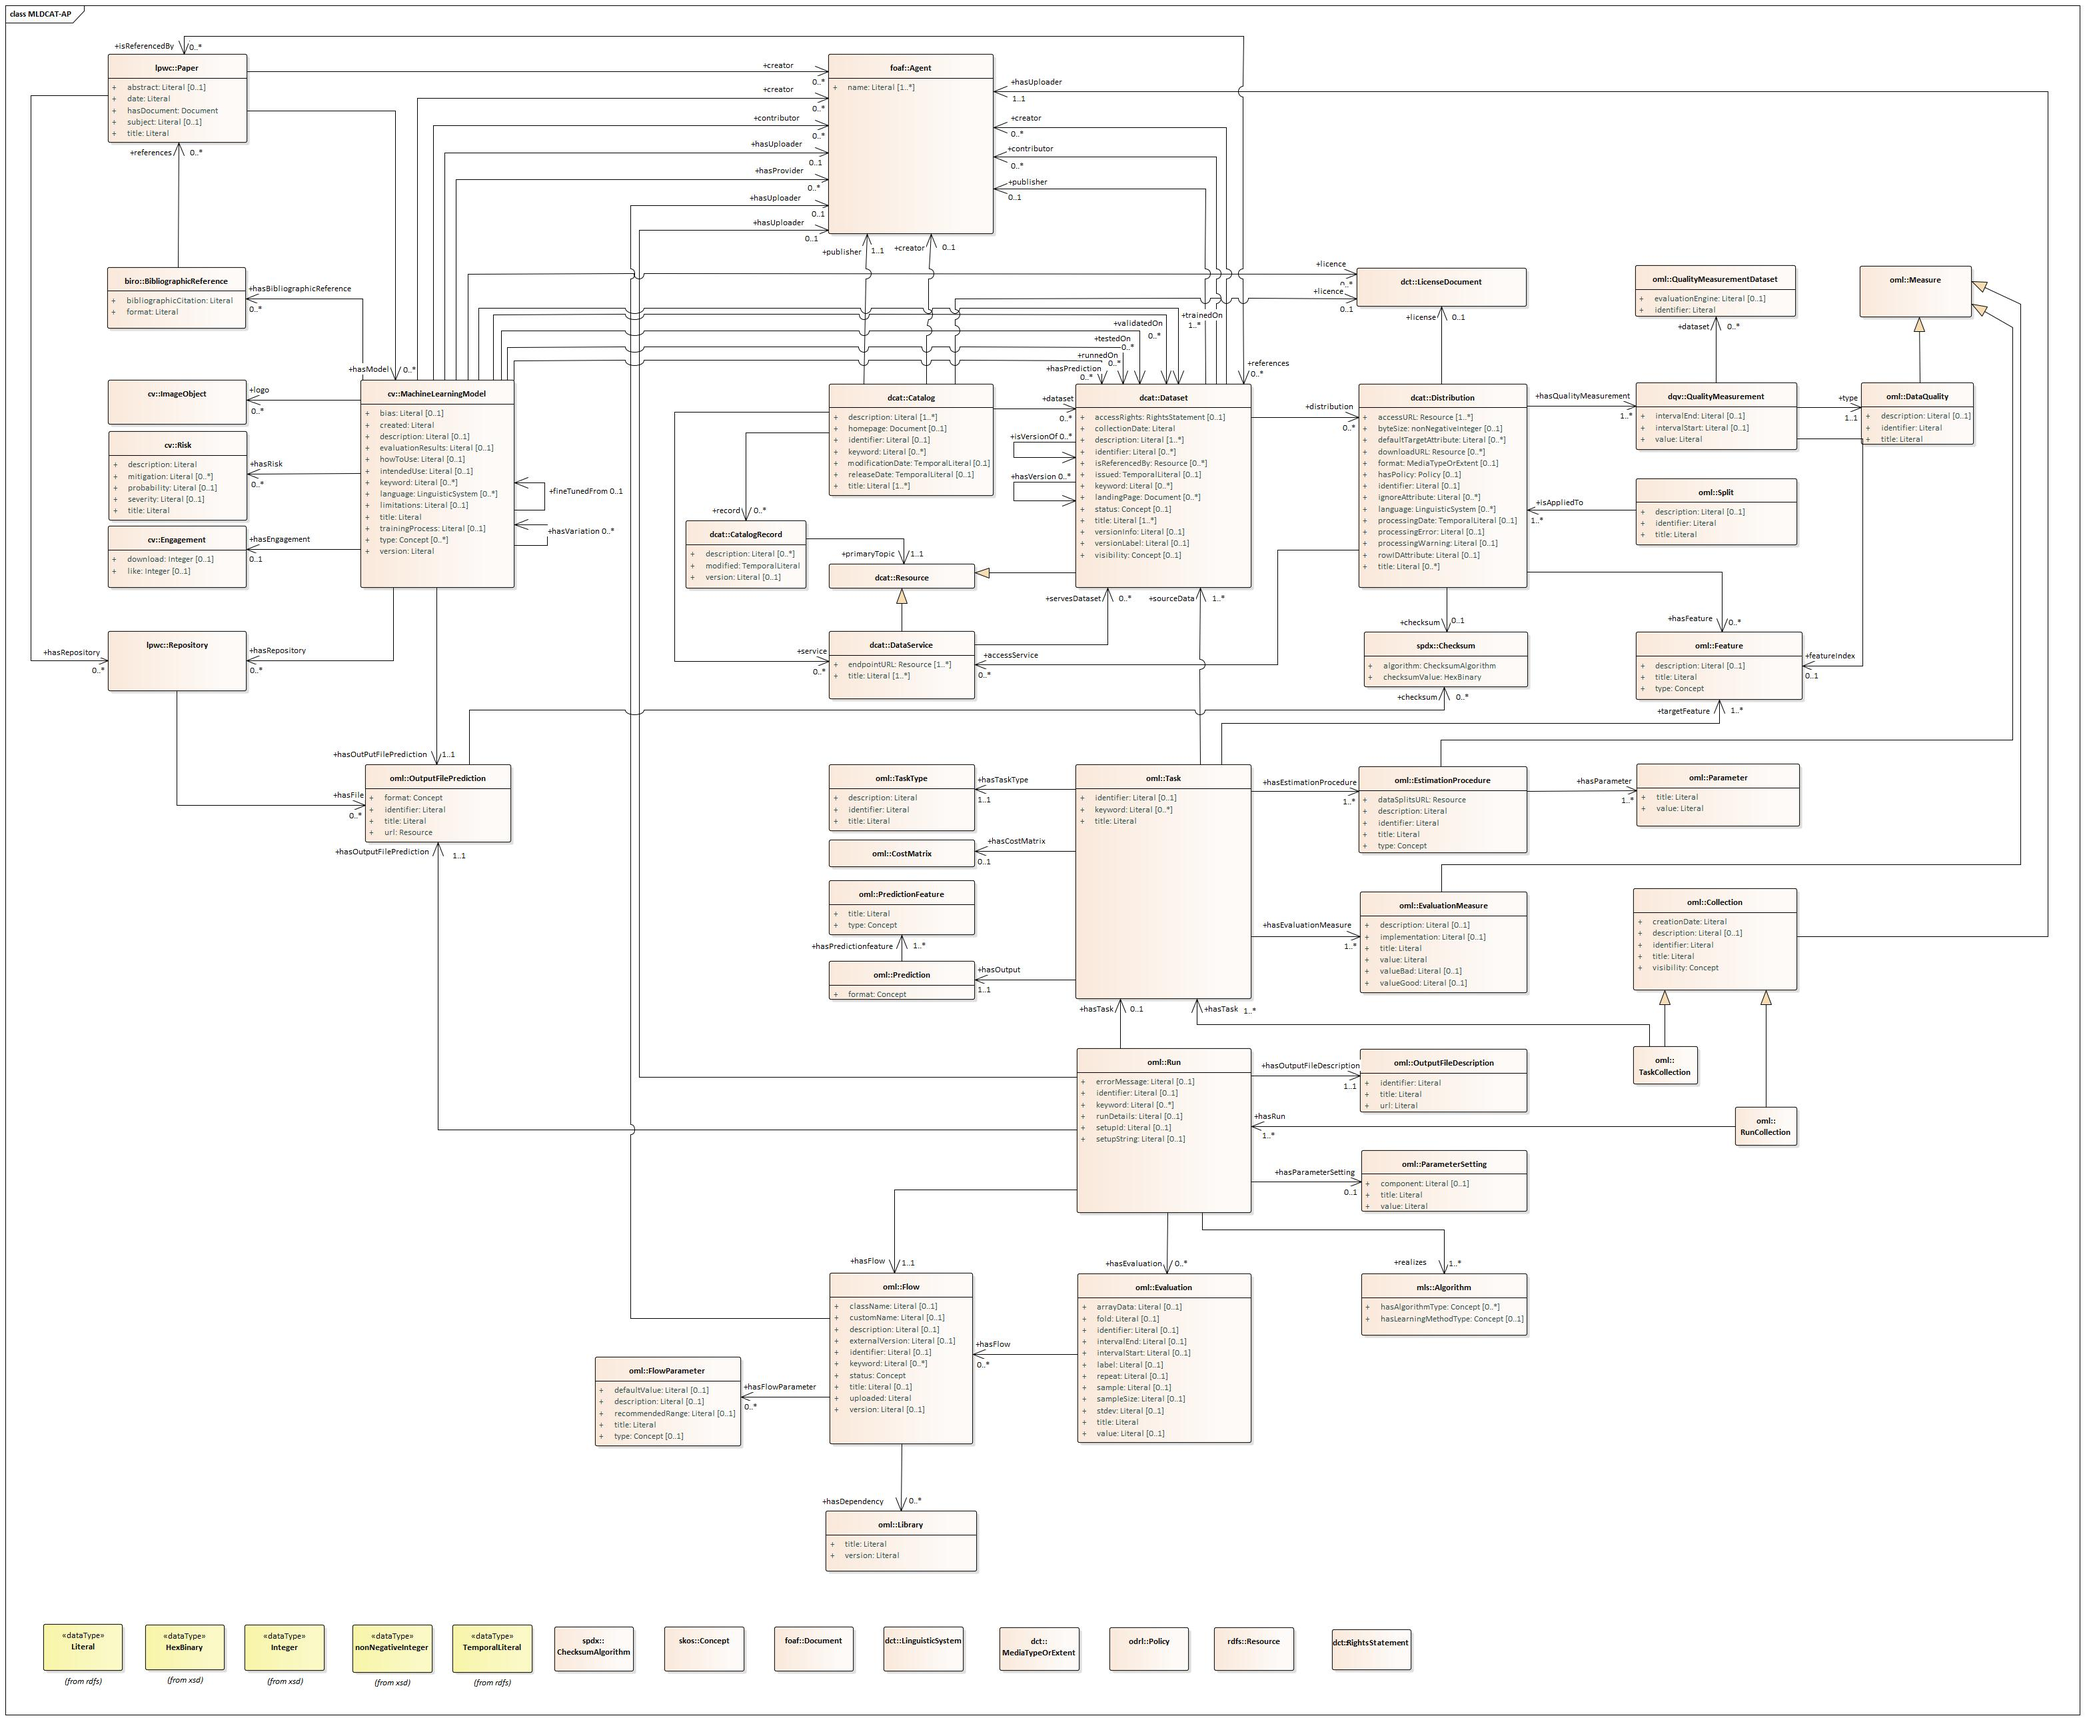
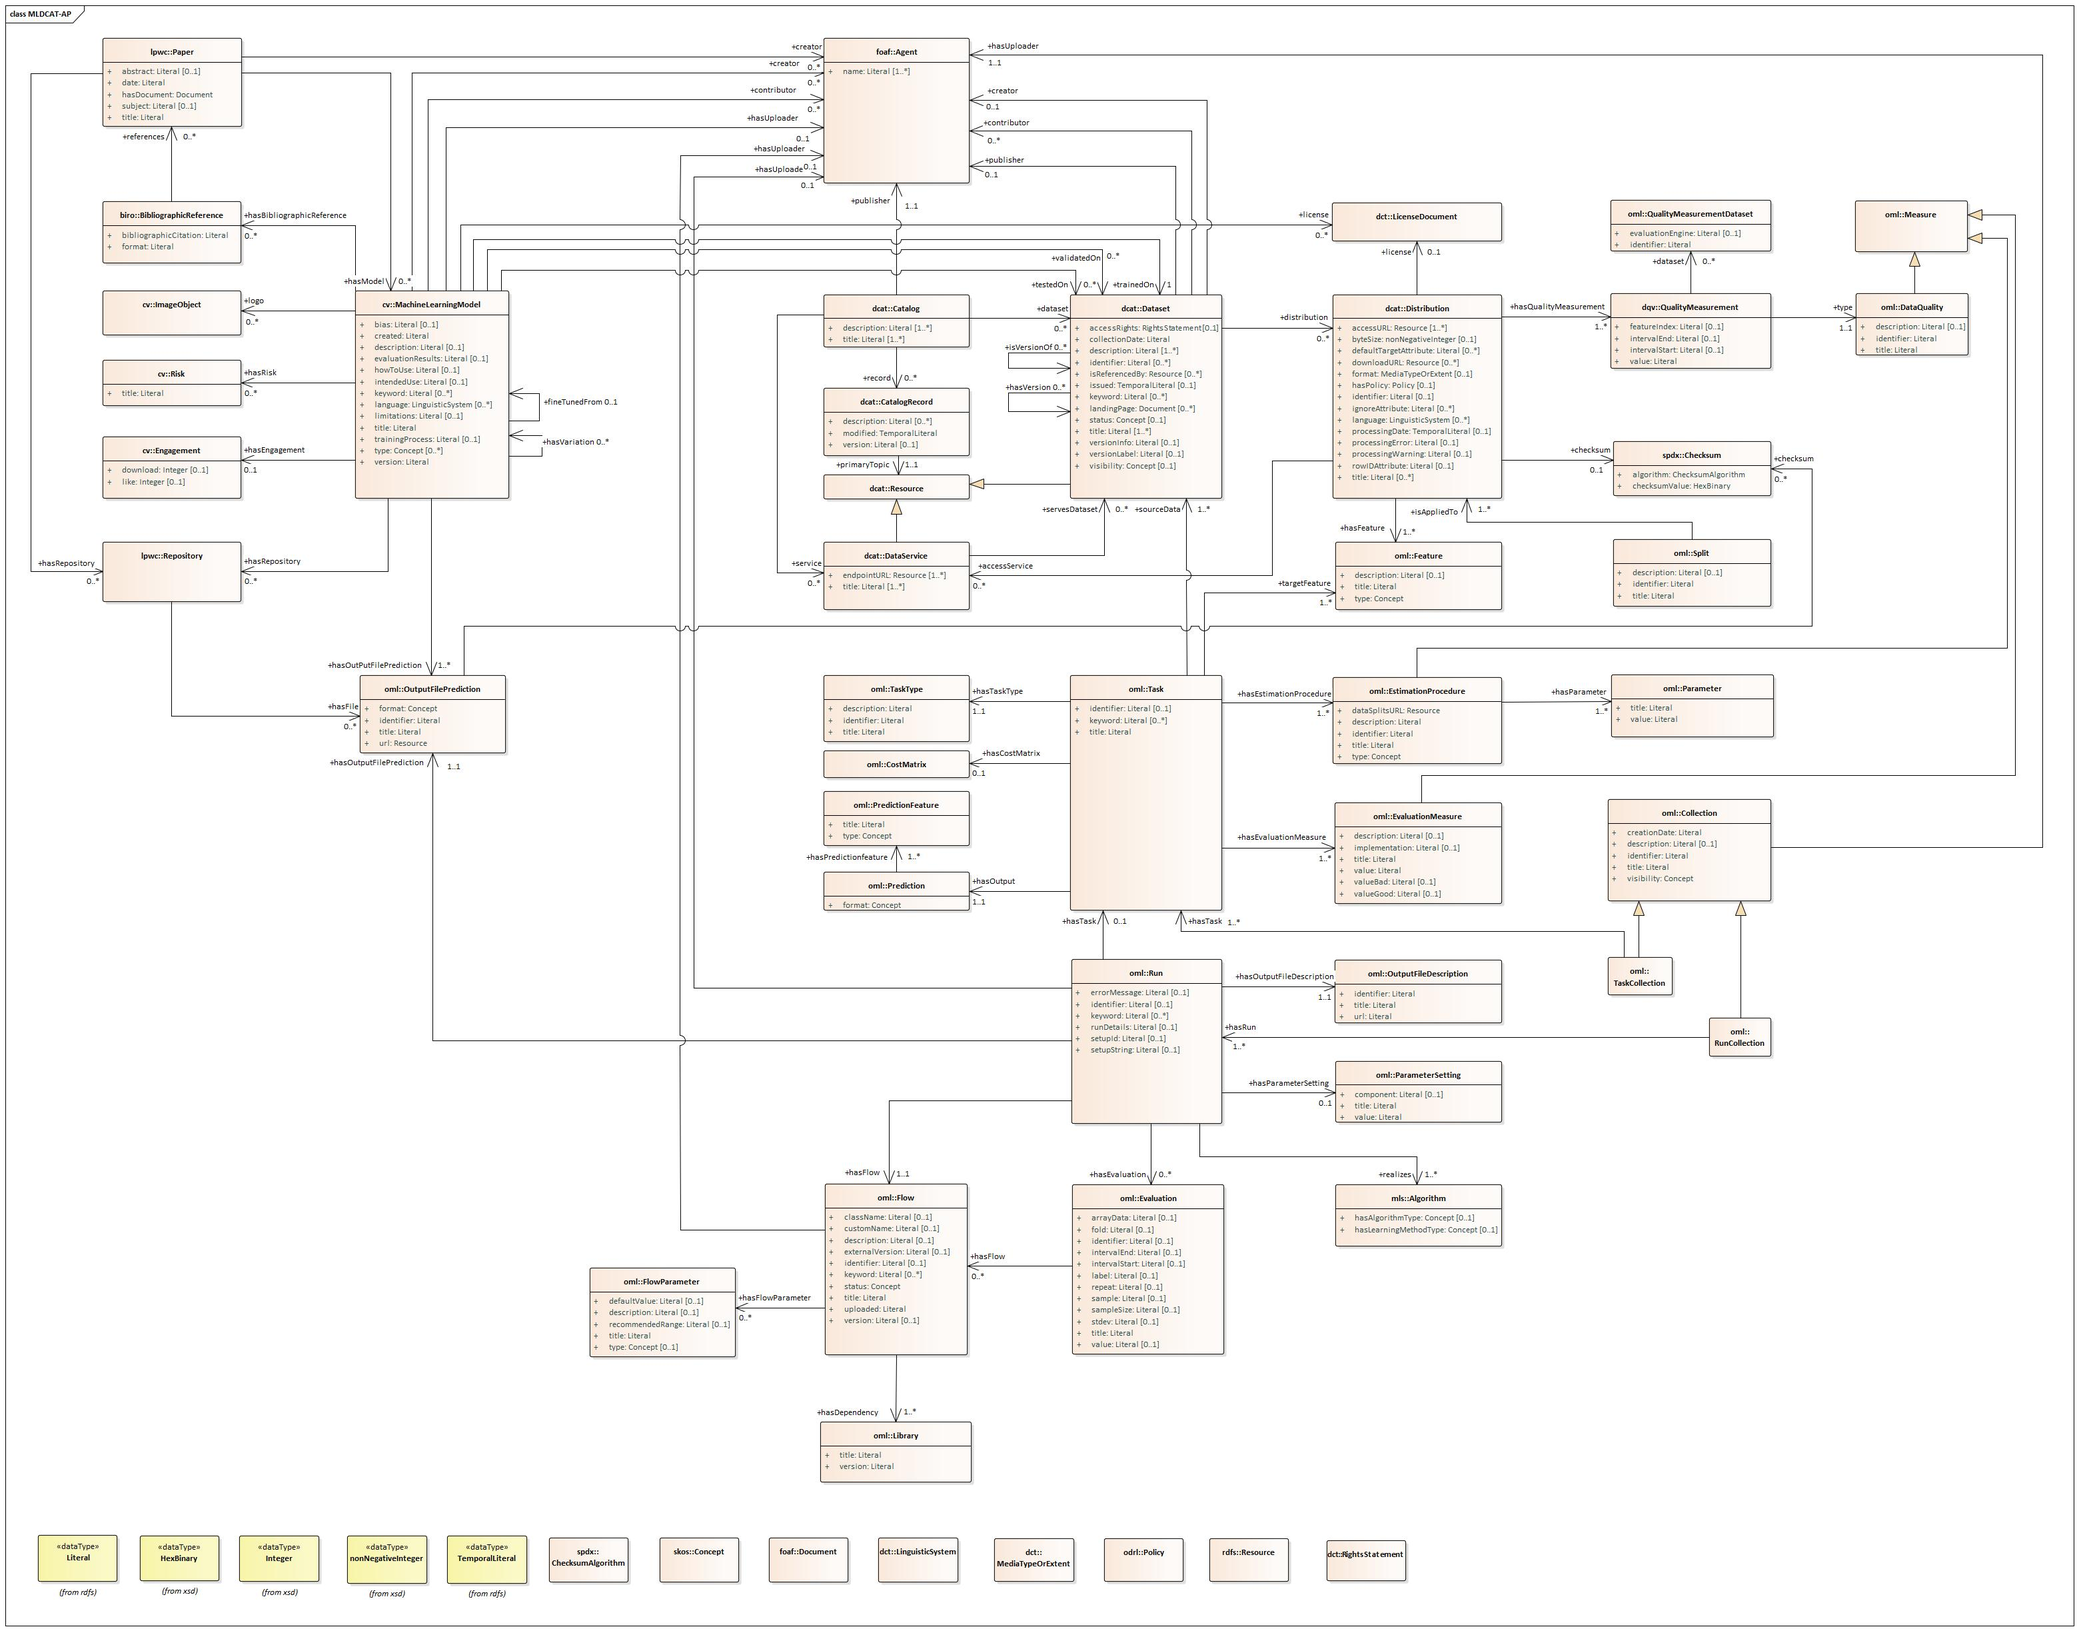
relaxed hasOutPutFilePrediction

Changed region(s): [[0.0, 0.0, 0.9949, 1.0], [0.0, 0.0, 0.1244, 0.0932], [0.1554, 0.4038, 0.2487, 0.4969]]

diff --git a/releases/2.0.0/index.html b/releases/2.0.0/index.html
@@ -3760,7 +3760,7 @@ The main entities are those that form the core of the Application Profile.
                                     
                                 </td>
                                 <td>
-                                    1
+                                    1..*
                                 </td>
                                 <td property="rdfs:comment">
                                     The file in which the model is expressed.
